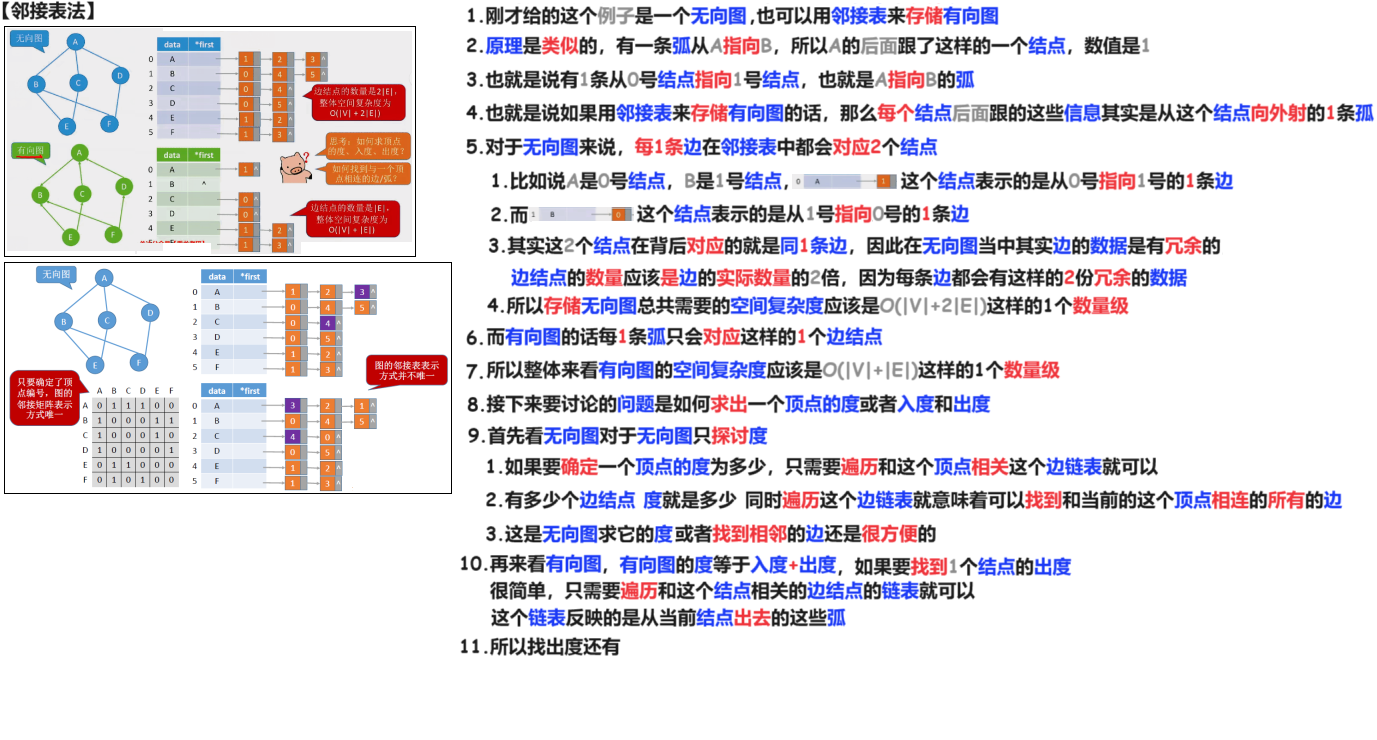
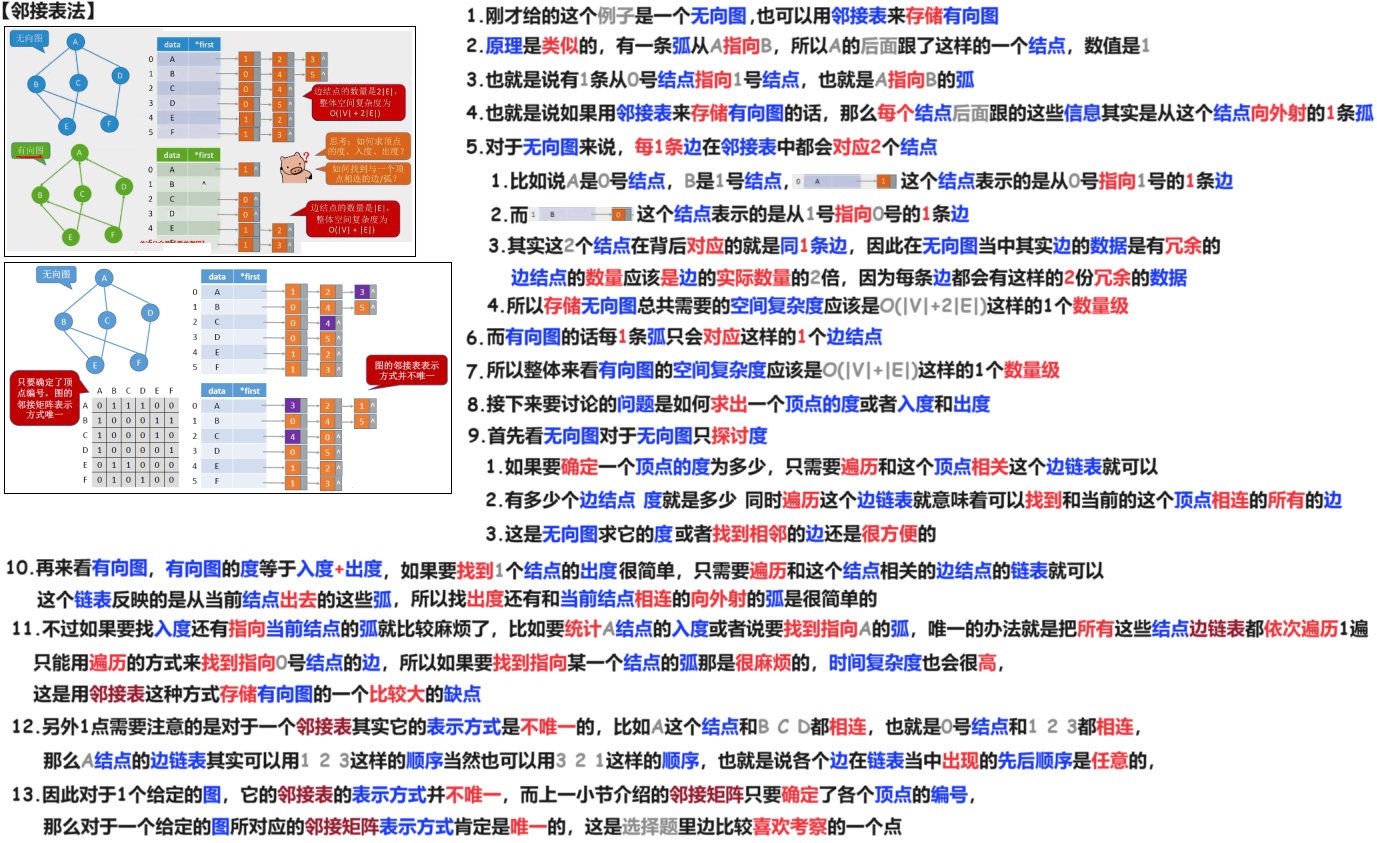
240407

diff --git a/01 初试/02 DS/02 24 王道 基础/06 图/02 图 存储 基本操作/02 图的存储 邻接表法 240407/02 Doc.md b/01 初试/02 DS/02 24 王道 基础/06 图/02 图 存储 基本操作/02 图的存储 邻接表法 240407/02 Doc.md
@@ -17,3 +17,12 @@
 # 03 对比：树的孩子表示法
 
 <img src="https://cvp.oss-cn-shanghai.aliyuncs.com/picgo/202403310922305.png" alt="image-20240331092249240" style="zoom:50%;" />
+
+# 04 邻接表法
+
+<img src="https://cvp.oss-cn-shanghai.aliyuncs.com/picgo/202404071722180.png" alt="image-20240407172224765" style="zoom: 50%;" />
+
+
+
+# 05 知识回顾与重要考点
+
